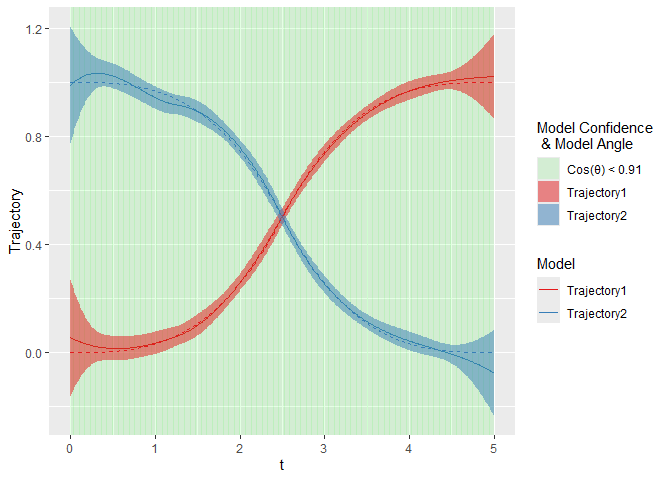
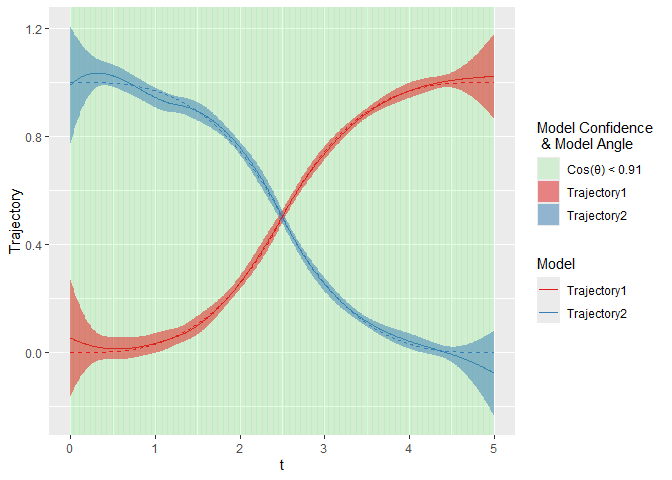
Use confidence intervals only for trajectories
Trajectories are latent and never observed, and the OneShot sigma^2 is
the variance of the velocity residuals, so adding it to a trajectory's
variance does not give a meaningful prediction interval.

- avgCIWidthTraj and visualizeEstTraj: remove the P_Int argument; bands
  and widths are confidence intervals from the coefficient covariance.
- coverageRateTraj: no longer adds sigma^2.
- getBestSplitsTraj "VarPos": no longer adds sigma^2. Without it the
  criterion only grows with the number of regions, so it now selects
  the fewest regions.
- Path intervals are unchanged (positions are observed, so sigma^2
  belongs in their prediction intervals).
- README trajectory plot updated; tests check sigma^2 has no effect.

On a 2,001-point simulated path, coverage of the BIC-selected OneShot
trajectories drops from 95.7%/99.6% to 43.7%/49.1%: the trajectory
confidence intervals are too narrow there.

R CMD check: 0 errors, 0 warnings, 1 NOTE (unable to verify current time).

diff --git a/README.md b/README.md
@@ -48,7 +48,7 @@ baseVectorFields
 #>     f2 = c(curPos[1], curPos[2])/sqrt(sum(c(curPos[1], curPos[2])^2))
 #>     matrix(c(f1, f2), nrow = 2, byrow = F)
 #> }
-#> <bytecode: 0x000001b589766508>
+#> <bytecode: 0x000002c83a74c620>
 #> <environment: namespace:VFmixing>
 ```
 
@@ -98,7 +98,7 @@ The run time, in seconds:
 ``` r
 PathTime
 #>    user  system elapsed 
-#>    0.18    0.08    0.32
+#>    0.30    0.02    0.31
 ```
 
 Because the “FullFours” path has a covariance structure, the plot can
@@ -186,7 +186,7 @@ The run time, in seconds:
 ``` r
 TrajTime
 #>    user  system elapsed 
-#>   11.74    0.11   12.17
+#>    5.50    0.16    5.75
 ```
 
 By default, every candidate up to `nsplits` is fit before the best one
@@ -207,7 +207,7 @@ PatienceTime <- system.time(
 ``` r
 PatienceTime
 #>    user  system elapsed 
-#>    0.08    0.00    0.08
+#>    0.03    0.00    0.04
 
 # Same trajectory as the full search?
 isTRUE(all.equal(EstTrajPatience$Traj, EstTraj$Traj))
@@ -219,7 +219,7 @@ TrueTraj <- VFmixing::ExTraj
 visualizeEstTraj(EstTraj = EstTraj, TrueTraj = TrueTraj$Traj,
                  TrueTrajTimeSplits = TrueTraj$TimeSplits, EstPath = EstPath,
                  baseVectorFields = baseVectorFields, t_grid_size = 0.01,
-                 CL = 0.95, P_Int = T, Cos_Cutoff = 0.91)
+                 CL = 0.95, Cos_Cutoff = 0.91)
 ```
 
 <img src="man/figures/README-unnamed-chunk-13-1.png" width="100%" />
